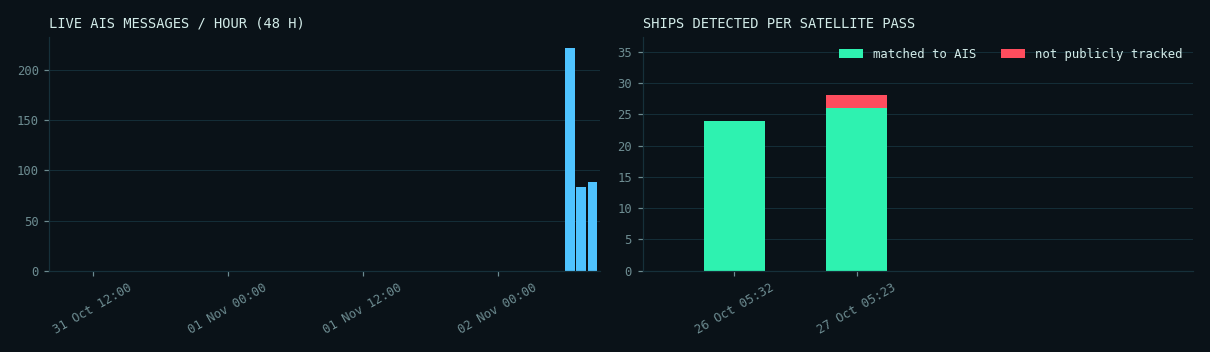
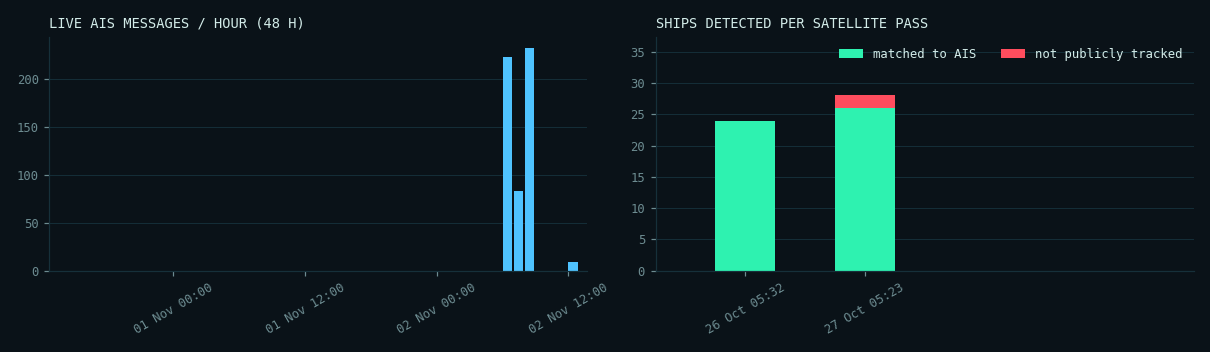
Automatic site update 2026-11-02 12:42 UTC

diff --git a/docs/denmark/index.html b/docs/denmark/index.html
@@ -83,13 +83,13 @@ footer{border-top:1px solid var(--line);padding:18px 0 28px;font:12px/1.6 var(--
   <div><div class="kicker">SAR &times; AIS &middot; MARITIME AWARENESS</div><div class="title">DARK VESSEL <b>DETECTION</b></div></div></a>
  <div class="status"><span class="pill"><span class="dot live"></span>AIS FEED <strong>LIVE</strong></span>
   <span class="pill">UTC <strong id="utc">--:--:--</strong></span>
-  <span class="pill">UPDATED <strong>02 Nov 08:09</strong></span></div>
+  <span class="pill">UPDATED <strong>02 Nov 12:42</strong></span></div>
 </div><nav class="tabs"><a class="" href="../index.html">OVERVIEW</a><a class="" href="../mumbai/index.html">MUMBAI</a><a class="on" href="../denmark/index.html">DENMARK</a><a class="" href="../nn/index.html">NEURAL NET</a><a class="" href="../demo/index.html">SIMULATION</a></nav></div></header>
 <main class="wrap"><div class="coords">SECTOR // DENMARK &middot; 55.55&ndash;55.85&deg;N &middot; 12.55&ndash;12.95&deg;E</div>
 <h1>Oresund, Copenhagen (Denmark/Sweden)</h1><p class="lede">Validation area. Sentinel-1 images it almost daily and coastal AIS coverage is dense, so the full match between radar and AIS can be shown and checked.</p>
 <div class="grid">
  <div class="panel"><div class="label">Live AIS feed</div><div class="value small"><span class='ok'>RECEIVING</span></div><div class="muted mono" style="font-size:12px;margin-top:6px">last message 0 min ago</div></div>
- <div class="panel"><div class="label">Ships broadcasting &middot; 30 min</div><div class="value cyan">62</div></div>
+ <div class="panel"><div class="label">Ships broadcasting &middot; 30 min</div><div class="value cyan">9</div></div>
  <div class="panel"><div class="label">Matched &middot; latest pass</div><div class="value ">26</div></div>
  <div class="panel"><div class="label">Not tracked &middot; high confidence</div><div class="value red">0</div></div>
  <div class="panel"><div class="label">Not tracked &middot; low confidence</div><div class="value amber">2</div></div>
@@ -98,7 +98,7 @@ footer{border-top:1px solid var(--line);padding:18px 0 28px;font:12px/1.6 var(--
 <div class="legend"><span><i style="background:var(--green)"></i>matched to AIS</span><span><i style="background:var(--red)"></i>not tracked &middot; high confidence</span>
 <span><i style="background:var(--amber)"></i>not tracked &middot; low confidence</span><span><i style="background:var(--cyan)"></i>live AIS position</span></div>
 <div id="map" class="map"></div><script>
-const D=[{"lon": 12.574560869565218, "lat": 55.849597826086956, "length_m": 72.681575622935, "score": 0.6554655519501138, "shore_km": 0.14150886088341372, "status": "matched", "reason": "", "confidence": "high", "crop": "", "ship_prob": 0.9335045218467712}, {"lon": 12.704759174311928, "lat": 55.82280412844037, "length_m": 364.1071436957287, "score": 0.9904753373251979, "shore_km": 9.407061429825474, "status": "matched", "reason": "", "confidence": "high", "crop": "", "ship_prob": 0.9868959784507751}, {"lon": 12.786416463414636, "lat": 55.804669512195126, "length_m": 155.0522474362954, "score": 0.9999646038759398, "shore_km": 4.658419014138412, "status": "matched", "reason": "", "confidence": "high", "crop": "", "ship_prob": 0.9993557333946228}, {"lon": 12.88229375, "lat": 55.849146875, "length_m": 53.38783327710226, "score": 0.9899546194309776, "shore_km": 0.9067240720863213, "status": "candidate", "reason": "same_spot_in_another_pass", "confidence": "low", "crop": "crops/S1-Oresund-20261027_37.png", "ship_prob": 0.7905591130256653}, {"lon": 12.604004166666668, "lat": 55.75985, "length_m": 141.84238362073958, "score": 0.6867268898684522, "shore_km": 0.07168283192738693, "status": "matched", "reason": "", "confidence": "high", "crop": "", "ship_prob": 0.5051270127296448}, {"lon": 12.605736764705883, "lat": 55.75241323529412, "length_m": 122.11483240811877, "score": 0.9136889320646264, "shore_km": 0.6454382429486746, "status": "candidate", "reason": "same_spot_in_another_pass", "confidence": "low", "crop": "crops/S1-Oresund-20261027_77.png", "ship_prob": 0.7927113175392151}, {"lon": 12.703722571428573, "lat": 55.77917742857143, "length_m": 223.0817648726515, "score": 0.9996320924909895, "shore_km": 5.943270442766068, "status": "matched", "reason": "", "confidence": "high", "crop": "", "ship_prob": 0.9938097596168518}, {"lon": 12.902757692307693, "lat": 55.75654230769231, "length_m": 65.46226537445588, "score": 0.7187896049600956, "shore_km": 0.03584141596369347, "status": "matched", "reason": "", "confidence": "high", "crop": "", "ship_prob": 0.8691755533218384}, {"lon": 12.589922222222222, "lat": 55.725764814814816, "length_m": 146.45480845096748, "score": 0.9957587025210503, "shore_km": 0.034771280891766385, "status": "matched", "reason": "", "confidence": "high", "crop": "", "ship_prob": 0.9983701109886169}, {"lon": 12.598472047244096, "lat": 55.72077913385827, "length_m": 207.62671185403417, "score": 0.609772230082722, "shore_km": 0.14016751439395445, "status": "matched", "reason": "", "confidence": "high", "crop": "", "ship_prob": 0.6074324250221252}, {"lon": 12.589218, "lat": 55.712854, "length_m": 90.49550243938293, "score": 0.6486089656085543, "shore_km": 0.043464101114707984, "status": "matched", "reason": "", "confidence": "high", "crop": "", "ship_prob": 0.9998902082443237}, {"lon": 12.59024090909091, "lat": 55.71147090909091, "length_m": 162.54265478639104, "score": 1.0, "shore_km": 0.06146752127277559, "status": "matched", "reason": "", "confidence": "high", "crop": "", "ship_prob": 0.9999992847442627}, {"lon": 12.597835937500001, "lat": 55.701648437500005, "length_m": 133.31776511703256, "score": 0.9396217092764791, "shore_km": 0.06789309632894441, "status": "matched", "reason": "", "confidence": "high", "crop": "", "ship_prob": 0.9999727010726929}, {"lon": 12.60914, "lat": 55.69712, "length_m": 65.36743236464424, "score": 0.7827588237578229, "shore_km": 0.03134240904220623, "status": "matched", "reason": "", "confidence": "high", "crop": "", "ship_prob": 0.9867132902145386}, {"lon": 12.668552272727274, "lat": 55.72007840909091, "length_m": 207.26605497726354, "score": 0.6251792307103263, "shore_km": 0.03584141596369347, "status": "matched", "reason": "", "confidence": "high", "crop": "", "ship_prob": 0.9087074398994446}, {"lon": 12.5996, "lat": 55.68885, "length_m": 40.00855981470757, "score": 0.7664068666153926, "shore_km": 0.024587008509110237, "status": "matched", "reason": "", "confidence": "high", "crop": "", "ship_prob": 0.9766618013381958}, {"lon": 12.595819230769232, "lat": 55.67989871794872, "length_m": 127.62371588738732, "score": 0.9426870407335851, "shore_km": 0.05068741655051085, "status": "matched", "reason": "", "confidence": "high", "crop": "", "ship_prob": 0.9998841285705566}, {"lon": 12.594722222222224, "lat": 55.67918888888889, "length_m": 40.64467714079742, "score": 0.7639524834029205, "shore_km": 0.043464101114707984, "status": "matched", "reason": "", "confidence": "high", "crop": "", "ship_prob": 0.9999454021453857}, {"lon": 12.610660714285714, "lat": 55.69618571428572, "length_m": 94.51225356515693, "score": 0.9621795096736379, "shore_km": 0.03134240904220623, "status": "matched", "reason": "", "confidence": "high", "crop": "", "ship_prob": 0.999042809009552}, {"lon": 12.649045000000001, "lat": 55.692155, "length_m": 80.63364746000343, "score": 0.8515033668168979, "shore_km": 0.8863693295037299, "status": "matched", "reason": "", "confidence": "high", "crop": "", "ship_prob": 0.4333752989768982}, {"lon": 12.630751724137932, "lat": 55.685453448275865, "length_m": 125.00287123881988, "score": 0.93629426700422, "shore_km": 0.043464101114707984, "status": "matched", "reason": "", "confidence": "high", "crop": "", "ship_prob": 0.9975905418395996}, {"lon": 12.634987254901962, "lat": 55.677338235294116, "length_m": 276.5478352749318, "score": 0.7686103584091717, "shore_km": 0.024587008509110237, "status": "matched", "reason": "", "confidence": "high", "crop": "", "ship_prob": 0.9729636907577515}, {"lon": 12.68766150442478, "lat": 55.69581814159292, "length_m": 176.8074930452176, "score": 0.923202226335388, "shore_km": 2.6834920471942074, "status": "matched", "reason": "", "confidence": "high", "crop": "", "ship_prob": 0.8427141904830933}, {"lon": 12.65826847826087, "lat": 55.63610108695652, "length_m": 174.21377549767067, "score": 0.9833187000337672, "shore_km": 0.043464101114707984, "status": "matched", "reason": "", "confidence": "high", "crop": "", "ship_prob": 0.9998973608016968}, {"lon": 12.680683333333334, "lat": 55.610910000000004, "length_m": 74.22790892756812, "score": 0.6314184609397504, "shore_km": 0.03134240904220623, "status": "matched", "reason": "", "confidence": "high", "crop": "", "ship_prob": 0.44054293632507324}, {"lon": 12.868352132196163, "lat": 55.60022420042644, "length_m": 299.20726350177785, "score": 0.9999960398718075, "shore_km": 2.8169298200726325, "status": "matched", "reason": "", "confidence": "high", "crop": "", "ship_prob": 0.9967911839485168}, {"lon": 12.680875, "lat": 55.59323, "length_m": 95.51211981545671, "score": 0.7585723176580392, "shore_km": 0.03584141596369347, "status": "matched", "reason": "", "confidence": "high", "crop": "", "ship_prob": 0.797581672668457}, {"lon": 12.706387741935485, "lat": 55.56306903225806, "length_m": 301.4640427512081, "score": 0.9999731380181186, "shore_km": 3.1965238712919084, "status": "matched", "reason": "", "confidence": "high", "crop": "", "ship_prob": 0.9941650032997131}],LIVE=[{"lon": 12.593525, "lat": 55.67914666666666, "sog": 0.0, "age": 16}, {"lon": 12.634881666666667, "lat": 55.68714666666666, "sog": 0.0, "age": 16}, {"lon": 12.892188333333333, "lat": 55.523716666666665, "sog": 0.0, "age": 15}, {"lon": 12.744435000000001, "lat": 55.993294999999996, "sog": 0.0, "age": 14}, {"lon": 12.630668333333334, "lat": 55.68978833333333, "sog": 0.0, "age": 14}, {"lon": 12.621371666666667, "lat": 55.713723333333334, "sog": 0.0, "age": 13}, {"lon": 12.999793333333335, "lat": 55.618365000000004, "sog": 0.0, "age": 12}, {"lon": 12.834936666666666, "lat": 55.85980666666667, "sog": 0.0, "age": 12}, {"lon": 12.480908333333334, "lat": 55.60677166666667, "sog": 0.0, "age": 12}, {"lon": 12.680435, "lat": 55.61123, "sog": 0.0, "age": 11}, {"lon": 12.59695, "lat": 55.71115666666667, "sog": 0.0, "age": 11}, {"lon": 12.828781666666666, "lat": 55.85993, "sog": 0.0, "age": 11}, {"lon": 12.661208333333333, "lat": 55.71371, "sog": 5.5, "age": 11}, {"lon": 12.599029999999999, "lat": 55.689035, "sog": 0.0, "age": 8}, {"lon": 12.696116666666667, "lat": 55.61378333333334, "sog": 8.6, "age": 8}, {"lon": 12.68712, "lat": 55.943888333333334, "sog": 0.0, "age": 8}, {"lon": 12.8329, "lat": 55.85851, "sog": 0.0, "age": 8}, {"lon": 12.744391666666667, "lat": 55.99324166666667, "sog": 0.1, "age": 6}, {"lon": 12.592983333333333, "lat": 55.679275, "sog": 0.0, "age": 6}, {"lon": 12.6065, "lat": 55.71049666666667, "sog": 0.0, "age": 6}, {"lon": 12.705421666666666, "lat": 55.571400000000004, "sog": 10.5, "age": 5}, {"lon": 12.572713333333333, "lat": 55.85085, "sog": 0.0, "age": 5}, {"lon": 12.828231666666666, "lat": 55.86146166666666, "sog": 0.0, "age": 5}, {"lon": 13.020836666666666, "lat": 55.63534333333334, "sog": 0.0, "age": 5}, {"lon": 12.731498333333333, "lat": 55.75246166666667, "sog": 0.0, "age": 5}, {"lon": 12.903478333333334, "lat": 55.75663833333333, "sog": 0.1, "age": 5}, {"lon": 12.711583333333333, "lat": 55.758995, "sog": 0.0, "age": 5}, {"lon": 12.67613, "lat": 55.593624999999996, "sog": 0.0, "age": 5}, {"lon": 12.625283333333334, "lat": 55.691053333333336, "sog": 0.0, "age": 3}, {"lon": 12.827623333333333, "lat": 55.86271, "sog": 0.0, "age": 3}, {"lon": 12.997639999999999, "lat": 55.613593333333334, "sog": 0.1, "age": 3}, {"lon": 12.645355, "lat": 55.67882, "sog": 0.0, "age": 3}, {"lon": 12.850701666666668, "lat": 55.85894333333333, "sog": 0.0, "age": 3}, {"lon": 12.599488333333333, "lat": 55.710591666666666, "sog": 0.0, "age": 3}, {"lon": 12.83375, "lat": 55.85574999999999, "sog": 0.0, "age": 2}, {"lon": 12.680198333333333, "lat": 55.59283833333333, "sog": 0.0, "age": 2}, {"lon": 12.695716666666668, "lat": 55.61742166666667, "sog": 8.2, "age": 2}, {"lon": 12.598659999999999, "lat": 55.71079666666667, "sog": 0.0, "age": 2}, {"lon": 12.603566666666667, "lat": 55.76058833333333, "sog": 0.0, "age": 2}, {"lon": 12.481715000000001, "lat": 55.600685, "sog": 0.0, "age": 2}, {"lon": 12.83193, "lat": 55.85404333333334, "sog": 0.0, "age": 2}, {"lon": 12.69661, "lat": 55.634890000000006, "sog": 10.8, "age": 2}, {"lon": 12.640095, "lat": 55.684018333333334, "sog": 0.0, "age": 2}, {"lon": 12.722641666666668, "lat": 55.90372166666667, "sog": 0.0, "age": 2}, {"lon": 12.731921666666667, "lat": 55.980628333333335, "sog": 0.0, "age": 2}, {"lon": 12.702003333333332, "lat": 55.81384333333333, "sog": 16.2, "age": 1}, {"lon": 12.492433333333334, "lat": 55.50066666666667, "sog": 9.4, "age": 1}, {"lon": 12.64692, "lat": 55.677371666666666, "sog": 0.0, "age": 1}, {"lon": 12.99034, "lat": 55.62685166666667, "sog": 0.0, "age": 1}, {"lon": 12.75439, "lat": 55.848333333333336, "sog": 11.9, "age": 1}, {"lon": 13.058501666666666, "lat": 55.675665, "sog": 0.1, "age": 1}, {"lon": 12.934228333333333, "lat": 55.69258, "sog": 0.0, "age": 1}, {"lon": 12.720133333333333, "lat": 55.75474666666666, "sog": 0.0, "age": 1}, {"lon": 13.033811666666667, "lat": 55.624583333333334, "sog": 0.0, "age": 0}, {"lon": 12.988945, "lat": 55.62670666666667, "sog": 0.0, "age": 0}, {"lon": 12.833300000000001, "lat": 55.8559, "sog": 0.0, "age": 0}, {"lon": 12.693386666666667, "lat": 55.781065, "sog": 13.3, "age": 0}, {"lon": 12.482451666666666, "lat": 55.6014, "sog": 0.0, "age": 0}, {"lon": 12.68007, "lat": 55.59290333333333, "sog": 0.4, "age": 0}, {"lon": 12.603475, "lat": 55.760508333333334, "sog": 0.0, "age": 0}, {"lon": 12.997366666666666, "lat": 55.61367166666666, "sog": 0.0, "age": 0}, {"lon": 12.823628333333334, "lat": 55.86643166666667, "sog": 0.0, "age": 0}],B=[[55.55,12.55],[55.85,12.95]];const m=L.map('map',{zoomSnap:.25}).fitBounds(B);
+const D=[{"lon": 12.574560869565218, "lat": 55.849597826086956, "length_m": 72.681575622935, "score": 0.6554655519501138, "shore_km": 0.14150886088341372, "status": "matched", "reason": "", "confidence": "high", "crop": "", "ship_prob": 0.9335045218467712}, {"lon": 12.704759174311928, "lat": 55.82280412844037, "length_m": 364.1071436957287, "score": 0.9904753373251979, "shore_km": 9.407061429825474, "status": "matched", "reason": "", "confidence": "high", "crop": "", "ship_prob": 0.9868959784507751}, {"lon": 12.786416463414636, "lat": 55.804669512195126, "length_m": 155.0522474362954, "score": 0.9999646038759398, "shore_km": 4.658419014138412, "status": "matched", "reason": "", "confidence": "high", "crop": "", "ship_prob": 0.9993557333946228}, {"lon": 12.88229375, "lat": 55.849146875, "length_m": 53.38783327710226, "score": 0.9899546194309776, "shore_km": 0.9067240720863213, "status": "candidate", "reason": "same_spot_in_another_pass", "confidence": "low", "crop": "crops/S1-Oresund-20261027_37.png", "ship_prob": 0.7905591130256653}, {"lon": 12.604004166666668, "lat": 55.75985, "length_m": 141.84238362073958, "score": 0.6867268898684522, "shore_km": 0.07168283192738693, "status": "matched", "reason": "", "confidence": "high", "crop": "", "ship_prob": 0.5051270127296448}, {"lon": 12.605736764705883, "lat": 55.75241323529412, "length_m": 122.11483240811877, "score": 0.9136889320646264, "shore_km": 0.6454382429486746, "status": "candidate", "reason": "same_spot_in_another_pass", "confidence": "low", "crop": "crops/S1-Oresund-20261027_77.png", "ship_prob": 0.7927113175392151}, {"lon": 12.703722571428573, "lat": 55.77917742857143, "length_m": 223.0817648726515, "score": 0.9996320924909895, "shore_km": 5.943270442766068, "status": "matched", "reason": "", "confidence": "high", "crop": "", "ship_prob": 0.9938097596168518}, {"lon": 12.902757692307693, "lat": 55.75654230769231, "length_m": 65.46226537445588, "score": 0.7187896049600956, "shore_km": 0.03584141596369347, "status": "matched", "reason": "", "confidence": "high", "crop": "", "ship_prob": 0.8691755533218384}, {"lon": 12.589922222222222, "lat": 55.725764814814816, "length_m": 146.45480845096748, "score": 0.9957587025210503, "shore_km": 0.034771280891766385, "status": "matched", "reason": "", "confidence": "high", "crop": "", "ship_prob": 0.9983701109886169}, {"lon": 12.598472047244096, "lat": 55.72077913385827, "length_m": 207.62671185403417, "score": 0.609772230082722, "shore_km": 0.14016751439395445, "status": "matched", "reason": "", "confidence": "high", "crop": "", "ship_prob": 0.6074324250221252}, {"lon": 12.589218, "lat": 55.712854, "length_m": 90.49550243938293, "score": 0.6486089656085543, "shore_km": 0.043464101114707984, "status": "matched", "reason": "", "confidence": "high", "crop": "", "ship_prob": 0.9998902082443237}, {"lon": 12.59024090909091, "lat": 55.71147090909091, "length_m": 162.54265478639104, "score": 1.0, "shore_km": 0.06146752127277559, "status": "matched", "reason": "", "confidence": "high", "crop": "", "ship_prob": 0.9999992847442627}, {"lon": 12.597835937500001, "lat": 55.701648437500005, "length_m": 133.31776511703256, "score": 0.9396217092764791, "shore_km": 0.06789309632894441, "status": "matched", "reason": "", "confidence": "high", "crop": "", "ship_prob": 0.9999727010726929}, {"lon": 12.60914, "lat": 55.69712, "length_m": 65.36743236464424, "score": 0.7827588237578229, "shore_km": 0.03134240904220623, "status": "matched", "reason": "", "confidence": "high", "crop": "", "ship_prob": 0.9867132902145386}, {"lon": 12.668552272727274, "lat": 55.72007840909091, "length_m": 207.26605497726354, "score": 0.6251792307103263, "shore_km": 0.03584141596369347, "status": "matched", "reason": "", "confidence": "high", "crop": "", "ship_prob": 0.9087074398994446}, {"lon": 12.5996, "lat": 55.68885, "length_m": 40.00855981470757, "score": 0.7664068666153926, "shore_km": 0.024587008509110237, "status": "matched", "reason": "", "confidence": "high", "crop": "", "ship_prob": 0.9766618013381958}, {"lon": 12.595819230769232, "lat": 55.67989871794872, "length_m": 127.62371588738732, "score": 0.9426870407335851, "shore_km": 0.05068741655051085, "status": "matched", "reason": "", "confidence": "high", "crop": "", "ship_prob": 0.9998841285705566}, {"lon": 12.594722222222224, "lat": 55.67918888888889, "length_m": 40.64467714079742, "score": 0.7639524834029205, "shore_km": 0.043464101114707984, "status": "matched", "reason": "", "confidence": "high", "crop": "", "ship_prob": 0.9999454021453857}, {"lon": 12.610660714285714, "lat": 55.69618571428572, "length_m": 94.51225356515693, "score": 0.9621795096736379, "shore_km": 0.03134240904220623, "status": "matched", "reason": "", "confidence": "high", "crop": "", "ship_prob": 0.999042809009552}, {"lon": 12.649045000000001, "lat": 55.692155, "length_m": 80.63364746000343, "score": 0.8515033668168979, "shore_km": 0.8863693295037299, "status": "matched", "reason": "", "confidence": "high", "crop": "", "ship_prob": 0.4333752989768982}, {"lon": 12.630751724137932, "lat": 55.685453448275865, "length_m": 125.00287123881988, "score": 0.93629426700422, "shore_km": 0.043464101114707984, "status": "matched", "reason": "", "confidence": "high", "crop": "", "ship_prob": 0.9975905418395996}, {"lon": 12.634987254901962, "lat": 55.677338235294116, "length_m": 276.5478352749318, "score": 0.7686103584091717, "shore_km": 0.024587008509110237, "status": "matched", "reason": "", "confidence": "high", "crop": "", "ship_prob": 0.9729636907577515}, {"lon": 12.68766150442478, "lat": 55.69581814159292, "length_m": 176.8074930452176, "score": 0.923202226335388, "shore_km": 2.6834920471942074, "status": "matched", "reason": "", "confidence": "high", "crop": "", "ship_prob": 0.8427141904830933}, {"lon": 12.65826847826087, "lat": 55.63610108695652, "length_m": 174.21377549767067, "score": 0.9833187000337672, "shore_km": 0.043464101114707984, "status": "matched", "reason": "", "confidence": "high", "crop": "", "ship_prob": 0.9998973608016968}, {"lon": 12.680683333333334, "lat": 55.610910000000004, "length_m": 74.22790892756812, "score": 0.6314184609397504, "shore_km": 0.03134240904220623, "status": "matched", "reason": "", "confidence": "high", "crop": "", "ship_prob": 0.44054293632507324}, {"lon": 12.868352132196163, "lat": 55.60022420042644, "length_m": 299.20726350177785, "score": 0.9999960398718075, "shore_km": 2.8169298200726325, "status": "matched", "reason": "", "confidence": "high", "crop": "", "ship_prob": 0.9967911839485168}, {"lon": 12.680875, "lat": 55.59323, "length_m": 95.51211981545671, "score": 0.7585723176580392, "shore_km": 0.03584141596369347, "status": "matched", "reason": "", "confidence": "high", "crop": "", "ship_prob": 0.797581672668457}, {"lon": 12.706387741935485, "lat": 55.56306903225806, "length_m": 301.4640427512081, "score": 0.9999731380181186, "shore_km": 3.1965238712919084, "status": "matched", "reason": "", "confidence": "high", "crop": "", "ship_prob": 0.9941650032997131}],LIVE=[{"lon": 12.823661666666668, "lat": 55.866413333333334, "sog": 0.1, "age": 1}, {"lon": 12.996228333333333, "lat": 55.62329, "sog": 0.0, "age": 0}, {"lon": 12.698755, "lat": 55.60193, "sog": 12.8, "age": 0}, {"lon": 12.730118333333333, "lat": 55.703245, "sog": 0.0, "age": 0}, {"lon": 12.744415, "lat": 55.99327666666667, "sog": 0.0, "age": 0}, {"lon": 12.6379, "lat": 55.888391666666664, "sog": 6.5, "age": 0}, {"lon": 12.572771666666666, "lat": 55.85082833333333, "sog": 0.0, "age": 0}, {"lon": 12.653413333333333, "lat": 55.876268333333336, "sog": 9.0, "age": 0}, {"lon": 12.693898333333333, "lat": 55.57119, "sog": 20.0, "age": 0}],B=[[55.55,12.55],[55.85,12.95]];const m=L.map('map',{zoomSnap:.25}).fitBounds(B);
 // re-fit once layout has settled: if the container had no size when the map was created, Leaflet falls back to zoom 0
 const refit=()=>{m.invalidateSize();m.fitBounds(B);};setTimeout(refit,0);window.addEventListener('load',refit);
 // standard OSM tiles (no API key), turned into a dark "radar console" basemap with a CSS filter (.radar-tiles)
@@ -116,8 +116,8 @@ L.control.layers(null,{'Radar detections (selected pass)':det,'Live AIS, last 30
 </script>
 <h2>Pass log</h2><div class='tablewrap'><table><thead><tr><th>pass (UTC)</th><th>ships</th><th>matched</th><th>not tracked</th><th>low conf.</th><th>match rate</th><th>AIS msgs</th></tr></thead><tbody><tr><td>2026-10-27 05:23 UTC</td><td>28</td><td class='ok'>26</td><td class='bad'>0</td><td style='color:var(--amber)'>2</td><td>93%</td><td>10687</td></tr><tr><td>2026-10-26 05:32 UTC</td><td>24</td><td class='ok'>24</td><td class='bad'>0</td><td style='color:var(--amber)'>0</td><td>100%</td><td>11603</td></tr></tbody></table></div>
 <h2>Telemetry</h2><img class="chart" src="charts.png" alt="AIS messages per hour and ships detected per pass">
-<p class="muted mono" style="font-size:12px">Feed gaps in the last 24 h: 2 (58 min) &middot; AIS messages in the last hour: 171</p>
-<h2>Recent Sentinel-1 acquisitions</h2><ul class="acq"><li>2026-11-01 16:44 UTC</li><li>2026-11-01 05:31 UTC</li><li>2026-10-31 16:52 UTC</li><li>2026-10-30 17:00 UTC</li><li>2026-10-27 05:23 UTC</li><li>2026-10-26 05:32 UTC</li><li>2026-10-25 16:52 UTC</li><li>2026-10-24 17:00 UTC</li></ul></main>
+<p class="muted mono" style="font-size:12px">Feed gaps in the last 24 h: 3 (316 min) &middot; AIS messages in the last hour: 9</p>
+<h2>Recent Sentinel-1 acquisitions</h2><ul class="acq"><li>2026-11-02 05:23 UTC</li><li>2026-11-01 16:44 UTC</li><li>2026-11-01 05:31 UTC</li><li>2026-10-31 16:52 UTC</li><li>2026-10-30 17:00 UTC</li><li>2026-10-27 05:23 UTC</li><li>2026-10-26 05:32 UTC</li><li>2026-10-25 16:52 UTC</li></ul></main>
 <footer><div class="wrap">Data: Copernicus Sentinel-1 (ESA) &middot; AIS via aisstream.io and the Danish Maritime Authority &middot;
 coastlines, structures and basemap &copy; OpenStreetMap contributors. Flags are candidates for review, not accusations.</div></footer>
 <script>(function(){const e=document.getElementById('utc');const t=()=>e.textContent=new Date().toISOString().slice(11,19);t();setInterval(t,1000);})();</script>

diff --git a/docs/index.html b/docs/index.html
@@ -83,7 +83,7 @@ footer{border-top:1px solid var(--line);padding:18px 0 28px;font:12px/1.6 var(--
   <div><div class="kicker">SAR &times; AIS &middot; MARITIME AWARENESS</div><div class="title">DARK VESSEL <b>DETECTION</b></div></div></a>
  <div class="status"><span class="pill"><span class="dot live"></span>AIS FEED <strong>LIVE</strong></span>
   <span class="pill">UTC <strong id="utc">--:--:--</strong></span>
-  <span class="pill">UPDATED <strong>02 Nov 08:09</strong></span></div>
+  <span class="pill">UPDATED <strong>02 Nov 12:42</strong></span></div>
 </div><nav class="tabs"><a class="on" href="index.html">OVERVIEW</a><a class="" href="mumbai/index.html">MUMBAI</a><a class="" href="denmark/index.html">DENMARK</a><a class="" href="nn/index.html">NEURAL NET</a><a class="" href="demo/index.html">SIMULATION</a></nav></div></header>
 <main class="wrap"><div class="coords">SYSTEM OVERVIEW</div>
 <h1>Ships the radar sees that nobody is tracking</h1>
@@ -91,7 +91,7 @@ footer{border-top:1px solid var(--line);padding:18px 0 28px;font:12px/1.6 var(--
 This system compares the two for each processed Sentinel-1 pass and lists the ships that appear on radar with no matching AIS signal.</p>
 <div class="grid" style="margin-top:18px"><div class="panel"><div class="label">Satellite passes processed</div><div class="value ">3</div></div><div class="panel"><div class="label">Ships matched to AIS</div><div class="value ">50</div></div>
 <div class="panel"><div class="label">Not tracked &middot; high confidence</div><div class="value red">0</div></div><div class="panel"><div class="label">Not tracked &middot; low confidence</div><div class="value amber">117</div></div>
-<div class="panel"><div class="label">Broadcasting now &middot; 30 min</div><div class="value cyan">62</div></div></div>
+<div class="panel"><div class="label">Broadcasting now &middot; 30 min</div><div class="value cyan">9</div></div></div>
 <p class="muted" style="font-size:13px;margin-top:10px"><b>High confidence</b> = no AIS ship nearby although the AIS feed was healthy and the
 target is within receiver range, and it is not at a spot where something was also seen on another pass. Everything else is
 <b>low confidence</b>: the data cannot support calling it dark (for example Mumbai, where no AIS was available for the pass at all).</p>
@@ -112,14 +112,14 @@ watching the catalogue for new passes and processing them automatically is the n
 <div class="kv"><span>ships matched to AIS</span><span class="ok">50</span></div>
 <div class="kv"><span>not tracked, high confidence</span><span class="bad">0</span></div>
 <div class="kv"><span>not tracked, low confidence</span><span style="color:var(--amber)">2</span></div>
-<div class="kv"><span>broadcasting now (30 min)</span><span style="color:var(--cyan)">62</span></div>
+<div class="kv"><span>broadcasting now (30 min)</span><span style="color:var(--cyan)">9</span></div>
 <div class="go">OPEN SECTOR &rarr;</div></a></div>
 <h2>Read before trusting a flag</h2>
 <div class="alert"><b>"Not publicly tracked" is not "switched off".</b> Small boats often carry no public AIS, free AIS comes from coastal
 receivers with limited range, and ships under about 40 m are not reliably visible to the satellite. Low-confidence flags are the ones the
 data cannot support: beyond receiver range, during an AIS feed gap, or with no AIS recorded.</div>
 <h2>Automatic runs</h2><p class="muted mono" style="font-size:12.5px;margin-top:-4px">Each row is one automatic website rebuild, with the live AIS counts at that moment. Newest first.</p>
-<div class="tablewrap"><table><thead><tr><th>run (UTC)</th><th>mumbai live</th><th>mumbai msg/h</th><th>denmark live</th><th>denmark msg/h</th></tr></thead><tbody><tr><td>2026-11-02 08:09</td><td>0</td><td>0</td><td>62</td><td>171</td></tr><tr><td>2026-11-02 07:53</td><td>0</td><td>0</td><td>19</td><td>49</td></tr><tr><td>2026-11-02 07:39</td><td>0</td><td>0</td><td>0</td><td>166</td></tr><tr><td>2026-11-02 07:27</td><td>0</td><td>0</td><td>0</td><td>222</td></tr><tr><td>2026-11-02 06:48</td><td>0</td><td>0</td><td>58</td><td>148</td></tr><tr><td>2026-11-02 06:33</td><td>0</td><td>0</td><td>5</td><td>6</td></tr><tr><td>2026-11-02 06:29</td><td>0</td><td>0</td><td>0</td><td>0</td></tr><tr><td>2026-11-02 06:25</td><td>0</td><td>0</td><td>0</td><td>0</td></tr><tr><td>2026-11-02 06:20</td><td>0</td><td>0</td><td>0</td><td>0</td></tr><tr><td>2026-11-02 06:10</td><td>0</td><td>0</td><td>0</td><td>0</td></tr><tr><td>2026-11-02 05:55</td><td>0</td><td>0</td><td>36</td><td>341</td></tr><tr><td>2026-11-02 05:40</td><td>0</td><td>0</td><td>38</td><td>353</td></tr><tr><td>2026-11-02 05:24</td><td>0</td><td>0</td><td>35</td><td>311</td></tr><tr><td>2026-11-02 05:09</td><td>0</td><td>0</td><td>36</td><td>222</td></tr><tr><td>2026-11-02 04:54</td><td>0</td><td>0</td><td>36</td><td>144</td></tr><tr><td>2026-11-02 04:50</td><td>0</td><td>0</td><td>33</td><td>110</td></tr><tr><td>2026-11-02 04:49</td><td>0</td><td>0</td><td>33</td><td>110</td></tr><tr><td>2026-11-02 04:49</td><td>0</td><td>0</td><td>32</td><td>108</td></tr><tr><td>2026-11-02 04:48</td><td>0</td><td>0</td><td>32</td><td>106</td></tr><tr><td>2026-11-02 04:47</td><td>0</td><td>0</td><td>32</td><td>104</td></tr><tr><td>2026-11-02 04:47</td><td>0</td><td>0</td><td>32</td><td>98</td></tr><tr><td>2026-11-02 04:27</td><td>0</td><td>0</td><td>6</td><td>6</td></tr><tr><td>2026-11-02 04:26</td><td>0</td><td>0</td><td>4</td><td>4</td></tr></tbody></table></div></main>
+<div class="tablewrap"><table><thead><tr><th>run (UTC)</th><th>mumbai live</th><th>mumbai msg/h</th><th>denmark live</th><th>denmark msg/h</th></tr></thead><tbody><tr><td>2026-11-02 12:42</td><td>0</td><td>0</td><td>9</td><td>9</td></tr><tr><td>2026-11-02 08:09</td><td>0</td><td>0</td><td>62</td><td>171</td></tr><tr><td>2026-11-02 07:53</td><td>0</td><td>0</td><td>19</td><td>49</td></tr><tr><td>2026-11-02 07:39</td><td>0</td><td>0</td><td>0</td><td>166</td></tr><tr><td>2026-11-02 07:27</td><td>0</td><td>0</td><td>0</td><td>222</td></tr><tr><td>2026-11-02 06:48</td><td>0</td><td>0</td><td>58</td><td>148</td></tr><tr><td>2026-11-02 06:33</td><td>0</td><td>0</td><td>5</td><td>6</td></tr><tr><td>2026-11-02 06:29</td><td>0</td><td>0</td><td>0</td><td>0</td></tr><tr><td>2026-11-02 06:25</td><td>0</td><td>0</td><td>0</td><td>0</td></tr><tr><td>2026-11-02 06:20</td><td>0</td><td>0</td><td>0</td><td>0</td></tr><tr><td>2026-11-02 06:10</td><td>0</td><td>0</td><td>0</td><td>0</td></tr><tr><td>2026-11-02 05:55</td><td>0</td><td>0</td><td>36</td><td>341</td></tr><tr><td>2026-11-02 05:40</td><td>0</td><td>0</td><td>38</td><td>353</td></tr><tr><td>2026-11-02 05:24</td><td>0</td><td>0</td><td>35</td><td>311</td></tr><tr><td>2026-11-02 05:09</td><td>0</td><td>0</td><td>36</td><td>222</td></tr><tr><td>2026-11-02 04:54</td><td>0</td><td>0</td><td>36</td><td>144</td></tr><tr><td>2026-11-02 04:50</td><td>0</td><td>0</td><td>33</td><td>110</td></tr><tr><td>2026-11-02 04:49</td><td>0</td><td>0</td><td>33</td><td>110</td></tr><tr><td>2026-11-02 04:49</td><td>0</td><td>0</td><td>32</td><td>108</td></tr><tr><td>2026-11-02 04:48</td><td>0</td><td>0</td><td>32</td><td>106</td></tr><tr><td>2026-11-02 04:47</td><td>0</td><td>0</td><td>32</td><td>104</td></tr><tr><td>2026-11-02 04:47</td><td>0</td><td>0</td><td>32</td><td>98</td></tr><tr><td>2026-11-02 04:27</td><td>0</td><td>0</td><td>6</td><td>6</td></tr><tr><td>2026-11-02 04:26</td><td>0</td><td>0</td><td>4</td><td>4</td></tr></tbody></table></div></main>
 <footer><div class="wrap">Data: Copernicus Sentinel-1 (ESA) &middot; AIS via aisstream.io and the Danish Maritime Authority &middot;
 coastlines, structures and basemap &copy; OpenStreetMap contributors. Flags are candidates for review, not accusations.</div></footer>
 <script>(function(){const e=document.getElementById('utc');const t=()=>e.textContent=new Date().toISOString().slice(11,19);t();setInterval(t,1000);})();</script>

diff --git a/docs/mumbai/index.html b/docs/mumbai/index.html
@@ -83,7 +83,7 @@ footer{border-top:1px solid var(--line);padding:18px 0 28px;font:12px/1.6 var(--
   <div><div class="kicker">SAR &times; AIS &middot; MARITIME AWARENESS</div><div class="title">DARK VESSEL <b>DETECTION</b></div></div></a>
  <div class="status"><span class="pill"><span class="dot live"></span>AIS FEED <strong>LIVE</strong></span>
   <span class="pill">UTC <strong id="utc">--:--:--</strong></span>
-  <span class="pill">UPDATED <strong>02 Nov 08:09</strong></span></div>
+  <span class="pill">UPDATED <strong>02 Nov 12:42</strong></span></div>
 </div><nav class="tabs"><a class="" href="../index.html">OVERVIEW</a><a class="on" href="../mumbai/index.html">MUMBAI</a><a class="" href="../denmark/index.html">DENMARK</a><a class="" href="../nn/index.html">NEURAL NET</a><a class="" href="../demo/index.html">SIMULATION</a></nav></div></header>
 <main class="wrap"><div class="coords">SECTOR // MUMBAI &middot; 18.80&ndash;19.10&deg;N &middot; 72.55&ndash;72.95&deg;E</div>
 <h1>Mumbai coast and harbour, India</h1><p class="lede">The project's target area. Sentinel-1 images it about once every 12 days, and free AIS comes only from coastal receivers, so many unmatched ships here are simply out of receiver range.</p>
@@ -116,7 +116,7 @@ L.control.layers(null,{'Radar detections (selected pass)':det,'Live AIS, last 30
 </script>
 <h2>Pass log</h2><div class='tablewrap'><table><thead><tr><th>pass (UTC)</th><th>ships</th><th>matched</th><th>not tracked</th><th>low conf.</th><th>match rate</th><th>AIS msgs</th></tr></thead><tbody><tr><td>2026-10-24 01:02 UTC</td><td>115</td><td class='ok'>0</td><td class='bad'>0</td><td style='color:var(--amber)'>115</td><td>0%</td><td>0</td></tr></tbody></table></div>
 <h2>Telemetry</h2><img class="chart" src="charts.png" alt="AIS messages per hour and ships detected per pass">
-<p class="muted mono" style="font-size:12px">Feed gaps in the last 24 h: 2 (58 min) &middot; AIS messages in the last hour: 0</p>
+<p class="muted mono" style="font-size:12px">Feed gaps in the last 24 h: 3 (316 min) &middot; AIS messages in the last hour: 0</p>
 <h2>Recent Sentinel-1 acquisitions</h2><ul class="acq"><li>2026-10-24 01:02 UTC</li></ul></main>
 <footer><div class="wrap">Data: Copernicus Sentinel-1 (ESA) &middot; AIS via aisstream.io and the Danish Maritime Authority &middot;
 coastlines, structures and basemap &copy; OpenStreetMap contributors. Flags are candidates for review, not accusations.</div></footer>

diff --git a/docs/demo/index.html b/docs/demo/index.html
@@ -83,7 +83,7 @@ footer{border-top:1px solid var(--line);padding:18px 0 28px;font:12px/1.6 var(--
   <div><div class="kicker">SAR &times; AIS &middot; MARITIME AWARENESS</div><div class="title">DARK VESSEL <b>DETECTION</b></div></div></a>
  <div class="status"><span class="pill"><span class="dot live"></span>AIS FEED <strong>LIVE</strong></span>
   <span class="pill">UTC <strong id="utc">--:--:--</strong></span>
-  <span class="pill">UPDATED <strong>02 Nov 08:09</strong></span></div>
+  <span class="pill">UPDATED <strong>02 Nov 12:42</strong></span></div>
 </div><nav class="tabs"><a class="" href="../index.html">OVERVIEW</a><a class="" href="../mumbai/index.html">MUMBAI</a><a class="" href="../denmark/index.html">DENMARK</a><a class="" href="../nn/index.html">NEURAL NET</a><a class="on" href="../demo/index.html">SIMULATION</a></nav></div></header>
 <main class="wrap"><div class="coords">SIMULATION // SYNTHETIC SCENES WITH KNOWN GROUND TRUTH</div>
 <h1>Simulation: the whole pipeline with a known answer</h1>

diff --git a/docs/nn/index.html b/docs/nn/index.html
@@ -83,7 +83,7 @@ footer{border-top:1px solid var(--line);padding:18px 0 28px;font:12px/1.6 var(--
   <div><div class="kicker">SAR &times; AIS &middot; MARITIME AWARENESS</div><div class="title">DARK VESSEL <b>DETECTION</b></div></div></a>
  <div class="status"><span class="pill"><span class="dot live"></span>AIS FEED <strong>LIVE</strong></span>
   <span class="pill">UTC <strong id="utc">--:--:--</strong></span>
-  <span class="pill">UPDATED <strong>02 Nov 08:09</strong></span></div>
+  <span class="pill">UPDATED <strong>02 Nov 12:42</strong></span></div>
 </div><nav class="tabs"><a class="" href="../index.html">OVERVIEW</a><a class="" href="../mumbai/index.html">MUMBAI</a><a class="" href="../denmark/index.html">DENMARK</a><a class="on" href="../nn/index.html">NEURAL NET</a><a class="" href="../demo/index.html">SIMULATION</a></nav></div></header>
 <main class="wrap"><div class="coords">NEURAL NETWORK // SHIPCNN</div>
 <h1>ShipCNN: our own convolutional network that decides "is this a ship?"</h1>
